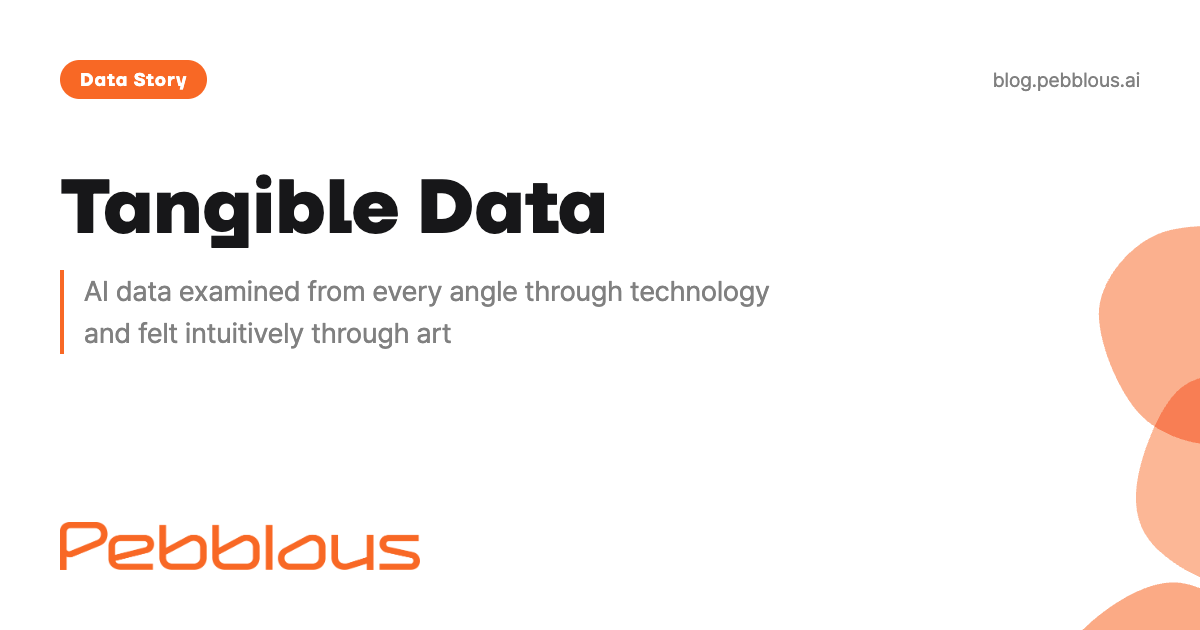
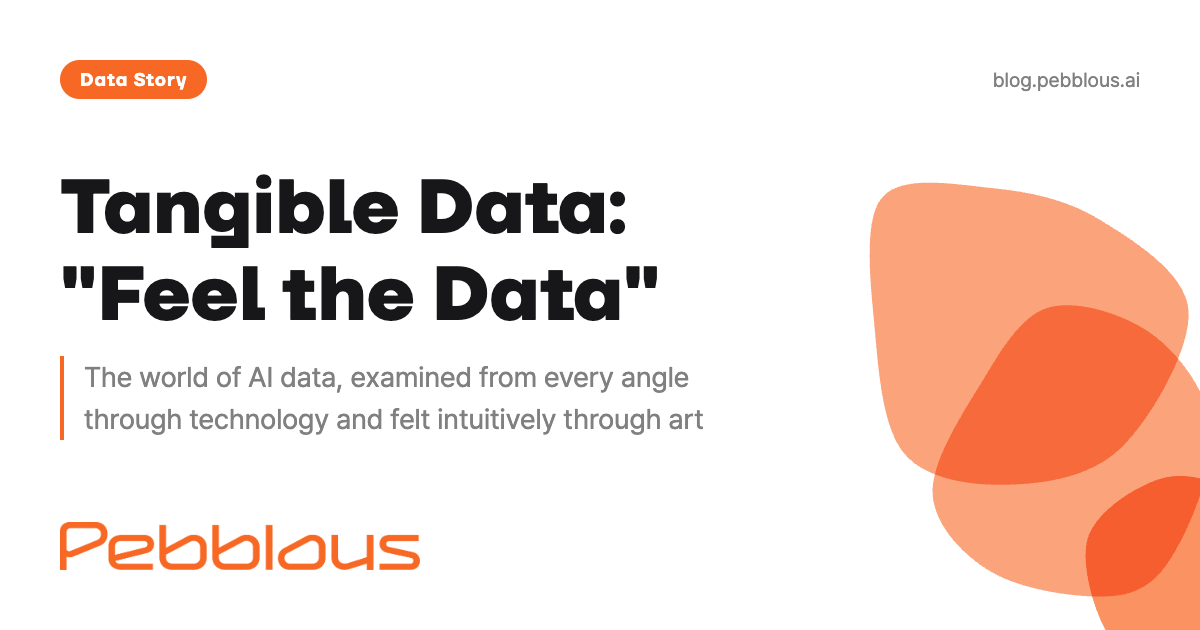
feat(tangible-data): 허브 제목 '탠저블 데이터: "데이터를 느껴보자"'·부제 '…AI 데이터의 세계'(형님 지정) + 메타데이터 갱신
- 허브 title/og/twitter/사이드카/changelog/OG 그림을 새 제목·부제로. 첫 글 KO/EN 에 JSON-LD TechArticle(isPartOf 허브) 추가
- 제목 검사기는 큰따옴표를 위반으로 표시(형님 지정 제목이라 유지, 허브는 게이트 대상 아님)

diff --git a/project/tangible-data/ko/index.html b/project/tangible-data/ko/index.html
@@ -8,7 +8,7 @@
     <meta name="robots" content="index, follow">
     <meta name="revisit-after" content="7 days">
 
-    <title>탠저블 데이터 — 기술과 예술로 만지는 AI 데이터 | 페블러스</title>
+    <title>탠저블 데이터 허브: 데이터를 느껴보자 — 기술과 예술로 만지는 AI 데이터의 세계 | 페블러스</title>
     <meta name="description" content="데이터를 만질 수 있게 하는 페블러스의 시도. 기술로 요모조모 살펴보는 데이터 저널리즘 기사와 예술로 직관적으로 느껴보는 데이터 아트, 두 갈래를 한 허브에 모은다.">
     <meta name="keywords" content="탠저블 데이터, Tangible Data, 데이터 저널리즘, 인터랙티브 기사, 데이터 아트, 데이터 아트랩, DAL, 임베딩, DINOv3, 페블러스">
 
@@ -18,14 +18,14 @@
     <link rel="alternate" hreflang="x-default" href="https://blog.pebblous.ai/project/tangible-data/ko/">
 
     <!-- Open Graph -->
-    <meta property="og:title" content="탠저블 데이터">
-    <meta property="og:description" content="기술로 요모조모 살펴보고 예술로 직관적으로 느껴보는 AI 데이터">
+    <meta property="og:title" content="탠저블 데이터: &quot;데이터를 느껴보자&quot;">
+    <meta property="og:description" content="기술로 요모조모 살펴보고 예술로 직관적으로 느껴보는 AI 데이터의 세계">
     <meta property="og:type" content="website">
     <meta property="og:url" content="https://blog.pebblous.ai/project/tangible-data/ko/">
     <meta property="og:image" content="https://blog.pebblous.ai/project/tangible-data/ko/image/index.png">
     <meta property="og:image:width" content="1200">
     <meta property="og:image:height" content="630">
-    <meta property="og:image:alt" content="탠저블 데이터 — 페블러스 허브">
+    <meta property="og:image:alt" content="탠저블 데이터 — 데이터를 느껴보자, 페블러스 허브">
     <meta property="og:site_name" content="Pebblous Blog">
     <meta property="og:locale" content="ko_KR">
 
@@ -33,10 +33,10 @@
     <meta name="twitter:card" content="summary_large_image">
     <meta name="twitter:site" content="@pebblous_official">
     <meta name="twitter:creator" content="@pebblous_official">
-    <meta name="twitter:title" content="탠저블 데이터">
-    <meta name="twitter:description" content="기술로 요모조모 살펴보고 예술로 직관적으로 느껴보는 AI 데이터">
+    <meta name="twitter:title" content="탠저블 데이터: &quot;데이터를 느껴보자&quot;">
+    <meta name="twitter:description" content="기술로 요모조모 살펴보고 예술로 직관적으로 느껴보는 AI 데이터의 세계">
     <meta name="twitter:image" content="https://blog.pebblous.ai/project/tangible-data/ko/image/index.png">
-    <meta name="twitter:image:alt" content="탠저블 데이터 — 페블러스 허브">
+    <meta name="twitter:image:alt" content="탠저블 데이터 — 데이터를 느껴보자, 페블러스 허브">
 
     <!-- Favicon -->
     <link rel="icon" href="/image/favicon.ico" sizes="any">
@@ -76,7 +76,7 @@
         <div class="intro-section">
             <div class="key-insight">
                 <p class="themeable-text leading-relaxed">
-                    탠저블 데이터는 데이터를 만질 수 있게 하는 페블러스의 시도다. 표와 그림으로 읽던 AI 데이터를 손으로 고르고 돌리고 눌러 보게 한다. 갈래는 둘이다. <strong>Tangible Data Story</strong>는 연구 데이터를 독자가 직접 탐색하는 데이터 저널리즘 기사이고, <strong>Tangible Data Art</strong>는 페블러스 데이터 아트랩(DAL)이 데이터를 감각의 경험으로 옮기는 작품이다. 기사는 정확성과 출처로, 작품은 경험과 질문으로 같은 데이터를 다르게 만지게 한다. 이 허브는 둘을 한 지붕 아래 두되 섞지 않는다.
+                    탠저블 데이터는 데이터를 만질 수 있게 하는 페블러스의 시도다. 표와 그림으로 읽던 AI 데이터의 세계를 손으로 고르고 돌리고 눌러 보게 한다. 갈래는 둘이다. <strong>Tangible Data Story</strong>는 연구 데이터를 독자가 직접 탐색하는 데이터 저널리즘 기사이고, <strong>Tangible Data Art</strong>는 페블러스 데이터 아트랩(DAL)이 데이터를 감각의 경험으로 옮기는 작품이다. 기사는 정확성과 출처로, 작품은 경험과 질문으로 같은 데이터를 다르게 만지게 한다. 이 허브는 둘을 한 지붕 아래 두되 섞지 않는다.
                 </p>
             </div>
         </div>
@@ -126,9 +126,9 @@
 
         document.addEventListener('DOMContentLoaded', async function() {
             const config = {
-                mainTitle: "탠저블 데이터",
-                subtitle: "기술로 요모조모 살펴보고 예술로 직관적으로 느껴보는 AI 데이터",
-                pageTitle: "탠저블 데이터 — 기술과 예술로 만지는 AI 데이터 | 페블러스",
+                mainTitle: "탠저블 데이터: \"데이터를 느껴보자\"",
+                subtitle: "기술로 요모조모 살펴보고 예술로 직관적으로 느껴보는 AI 데이터의 세계",
+                pageTitle: "탠저블 데이터 허브: 데이터를 느껴보자 — 기술과 예술로 만지는 AI 데이터의 세계 | 페블러스",
                 publishDate: "2026년 9월",
                 publisher: "(주)페블러스 데이터 커뮤니케이션팀",
                 defaultTheme: "light",

diff --git a/project/tangible-data/en/index.html b/project/tangible-data/en/index.html
@@ -8,7 +8,7 @@
     <meta name="robots" content="index, follow">
     <meta name="revisit-after" content="7 days">
 
-    <title>Tangible Data — AI Data Through Tech and Art | Pebblous</title>
+    <title>Tangible Data Hub: Feel the Data — The World of AI Data Through Tech and Art | Pebblous</title>
     <meta name="description" content="Pebblous's effort to make data something you can handle: data-journalism stories that examine AI data from every angle, and data art that lets you feel it intuitively, in one hub.">
     <meta name="keywords" content="Tangible Data, data journalism, interactive story, data art, Data Art Lab, DAL, embeddings, DINOv3, Pebblous">
 
@@ -18,14 +18,14 @@
     <link rel="alternate" hreflang="x-default" href="https://blog.pebblous.ai/project/tangible-data/ko/">
 
     <!-- Open Graph -->
-    <meta property="og:title" content="Tangible Data">
-    <meta property="og:description" content="AI data examined from every angle through technology and felt intuitively through art">
+    <meta property="og:title" content="Tangible Data: &quot;Feel the Data&quot;">
+    <meta property="og:description" content="The world of AI data, examined from every angle through technology and felt intuitively through art">
     <meta property="og:type" content="website">
     <meta property="og:url" content="https://blog.pebblous.ai/project/tangible-data/en/">
     <meta property="og:image" content="https://blog.pebblous.ai/project/tangible-data/en/image/index.png">
     <meta property="og:image:width" content="1200">
     <meta property="og:image:height" content="630">
-    <meta property="og:image:alt" content="Tangible Data — the Pebblous hub">
+    <meta property="og:image:alt" content="Tangible Data — Feel the Data, the Pebblous hub">
     <meta property="og:site_name" content="Pebblous Blog">
     <meta property="og:locale" content="en_US">
 
@@ -33,10 +33,10 @@
     <meta name="twitter:card" content="summary_large_image">
     <meta name="twitter:site" content="@pebblous_official">
     <meta name="twitter:creator" content="@pebblous_official">
-    <meta name="twitter:title" content="Tangible Data">
-    <meta name="twitter:description" content="AI data examined from every angle through technology and felt intuitively through art">
+    <meta name="twitter:title" content="Tangible Data: &quot;Feel the Data&quot;">
+    <meta name="twitter:description" content="The world of AI data, examined from every angle through technology and felt intuitively through art">
     <meta name="twitter:image" content="https://blog.pebblous.ai/project/tangible-data/en/image/index.png">
-    <meta name="twitter:image:alt" content="Tangible Data — the Pebblous hub">
+    <meta name="twitter:image:alt" content="Tangible Data — Feel the Data, the Pebblous hub">
 
     <!-- Favicon -->
     <link rel="icon" href="/image/favicon.ico" sizes="any">
@@ -126,9 +126,9 @@
 
         document.addEventListener('DOMContentLoaded', async function() {
             const config = {
-                mainTitle: "Tangible Data",
-                subtitle: "AI data examined from every angle through technology and felt intuitively through art",
-                pageTitle: "Tangible Data — AI Data Through Tech and Art | Pebblous",
+                mainTitle: "Tangible Data: \"Feel the Data\"",
+                subtitle: "The world of AI data, examined from every angle through technology and felt intuitively through art",
+                pageTitle: "Tangible Data Hub: Feel the Data — The World of AI Data Through Tech and Art | Pebblous",
                 publishDate: "September 2026",
                 publisher: "Pebblous Data Communication Team",
                 defaultTheme: "light",

diff --git a/story/tangible-data-dinov3-beans/ko/index.html b/story/tangible-data-dinov3-beans/ko/index.html
@@ -49,6 +49,56 @@
     'https://www.googletagmanager.com/gtm.js?id='+i+dl;f.parentNode.insertBefore(j,f);
     })(window,document,'script','dataLayer','GTM-57L9F58B');</script>
 
+    <!-- JSON-LD: Article -->
+    <script type="application/ld+json">
+    {
+        "@context": "https://schema.org",
+        "@type": "TechArticle",
+        "headline": "AI는 강낭콩 잎 사진을 어떻게 '비슷하다'고 볼까?",
+        "alternativeHeadline": "우간다 강낭콩 잎 사진 300장을 네 가지 AI 모델의 눈으로 비교하고, 신경망 층마다 바뀌는 값을 직접 눌러 보는 탐색기",
+        "description": "우간다 강낭콩 잎 사진 300장을 네 가지 AI 모델의 눈으로 비교하고, 신경망 층마다 바뀌는 값을 직접 눌러 보는 탐색기. 실제 사진·임베딩·층별 텐서를 그대로 담은 탠저블 데이터 스토리 첫 편.",
+        "url": "https://blog.pebblous.ai/story/tangible-data-dinov3-beans/ko/",
+        "image": "https://blog.pebblous.ai/story/tangible-data-dinov3-beans/ko/image/index.png",
+        "inLanguage": "ko-KR",
+        "isPartOf": {
+            "@type": "WebPage",
+            "name": "탠저블 데이터: \"데이터를 느껴보자\"",
+            "url": "https://blog.pebblous.ai/project/tangible-data/ko/"
+        },
+        "author": {
+            "@type": "Organization",
+            "name": "Pebblous",
+            "url": "https://www.pebblous.ai"
+        },
+        "publisher": {
+            "@type": "Organization",
+            "name": "Pebblous",
+            "logo": {
+                "@type": "ImageObject",
+                "url": "https://www.pebblous.ai/image/Pebblous_BM_Orange_RGB.png"
+            }
+        },
+        "datePublished": "2026-09-25",
+        "dateModified": "2026-09-25",
+        "keywords": [
+            "탠저블 데이터",
+            "Tangible Data Story",
+            "DINOv3",
+            "임베딩",
+            "iBean",
+            "강낭콩 잎",
+            "데이터 품질"
+        ],
+        "about": [
+            "DINOv3",
+            "image embeddings",
+            "self-supervised learning",
+            "iBean dataset"
+        ],
+        "isAccessibleForFree": true
+    }
+    </script>
+
     <!-- Styles -->
     <link rel="stylesheet" href="/css/theme-variables.css?v=20260925">
     <link rel="stylesheet" href="/styles/tailwind-build.css?v=20260925">

diff --git a/story/tangible-data-dinov3-beans/en/index.html b/story/tangible-data-dinov3-beans/en/index.html
@@ -49,6 +49,56 @@
     'https://www.googletagmanager.com/gtm.js?id='+i+dl;f.parentNode.insertBefore(j,f);
     })(window,document,'script','dataLayer','GTM-57L9F58B');</script>
 
+    <!-- JSON-LD: Article -->
+    <script type="application/ld+json">
+    {
+        "@context": "https://schema.org",
+        "@type": "TechArticle",
+        "headline": "How Does an AI Decide Which Bean-Leaf Photos Look Alike?",
+        "alternativeHeadline": "Four models' views of 300 bean-leaf photos, and the layers in between, in an explorer you can handle",
+        "description": "Compare four models' embeddings of 300 Ugandan bean-leaf photos and step through layer-by-layer tensors in an interactive explorer. First Tangible Data Story.",
+        "url": "https://blog.pebblous.ai/story/tangible-data-dinov3-beans/en/",
+        "image": "https://blog.pebblous.ai/story/tangible-data-dinov3-beans/en/image/index.png",
+        "inLanguage": "en-US",
+        "isPartOf": {
+            "@type": "WebPage",
+            "name": "Tangible Data: \"Feel the Data\"",
+            "url": "https://blog.pebblous.ai/project/tangible-data/en/"
+        },
+        "author": {
+            "@type": "Organization",
+            "name": "Pebblous",
+            "url": "https://www.pebblous.ai"
+        },
+        "publisher": {
+            "@type": "Organization",
+            "name": "Pebblous",
+            "logo": {
+                "@type": "ImageObject",
+                "url": "https://www.pebblous.ai/image/Pebblous_BM_Orange_RGB.png"
+            }
+        },
+        "datePublished": "2026-09-25",
+        "dateModified": "2026-09-25",
+        "keywords": [
+            "Tangible Data",
+            "Tangible Data Story",
+            "DINOv3",
+            "embeddings",
+            "iBean",
+            "bean leaves",
+            "data quality"
+        ],
+        "about": [
+            "DINOv3",
+            "image embeddings",
+            "self-supervised learning",
+            "iBean dataset"
+        ],
+        "isAccessibleForFree": true
+    }
+    </script>
+
     <!-- Styles -->
     <link rel="stylesheet" href="/css/theme-variables.css?v=20260925">
     <link rel="stylesheet" href="/styles/tailwind-build.css?v=20260925">

diff --git a/project/tangible-data/index.html b/project/tangible-data/index.html
@@ -7,8 +7,8 @@
     <link rel="canonical" href="./ko/">
     <script>window.location.replace('./ko/');</script>
     <meta property="og:type" content="website">
-    <meta property="og:title" content="탠저블 데이터">
-    <meta property="og:description" content="기술로 요모조모 살펴보고 예술로 직관적으로 느껴보는 AI 데이터">
+    <meta property="og:title" content="탠저블 데이터: &quot;데이터를 느껴보자&quot;">
+    <meta property="og:description" content="기술로 요모조모 살펴보고 예술로 직관적으로 느껴보는 AI 데이터의 세계">
     <meta property="og:image" content="https://blog.pebblous.ai/project/tangible-data/ko/image/index.png">
     <meta property="og:url" content="https://blog.pebblous.ai/project/tangible-data/">
     <meta name="twitter:card" content="summary_large_image">
